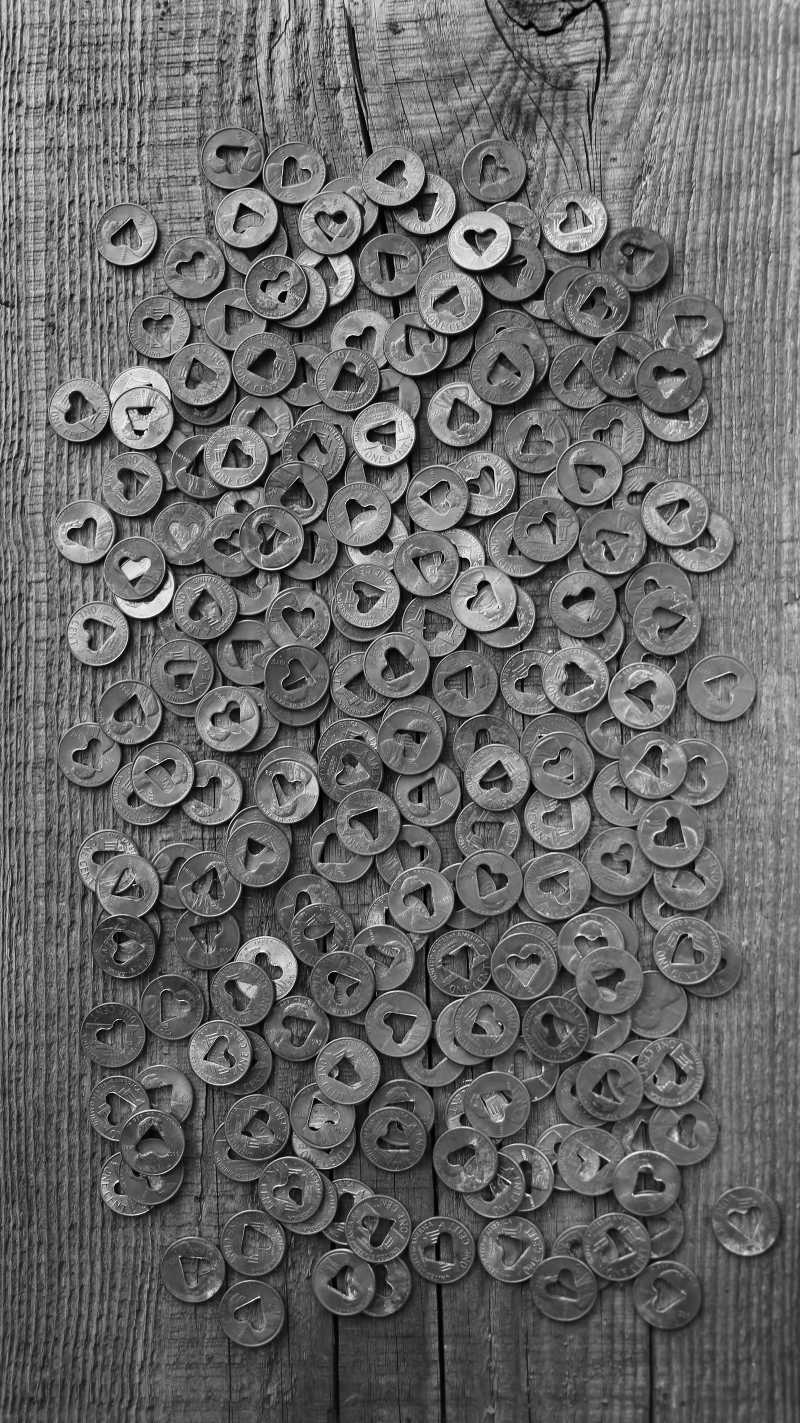
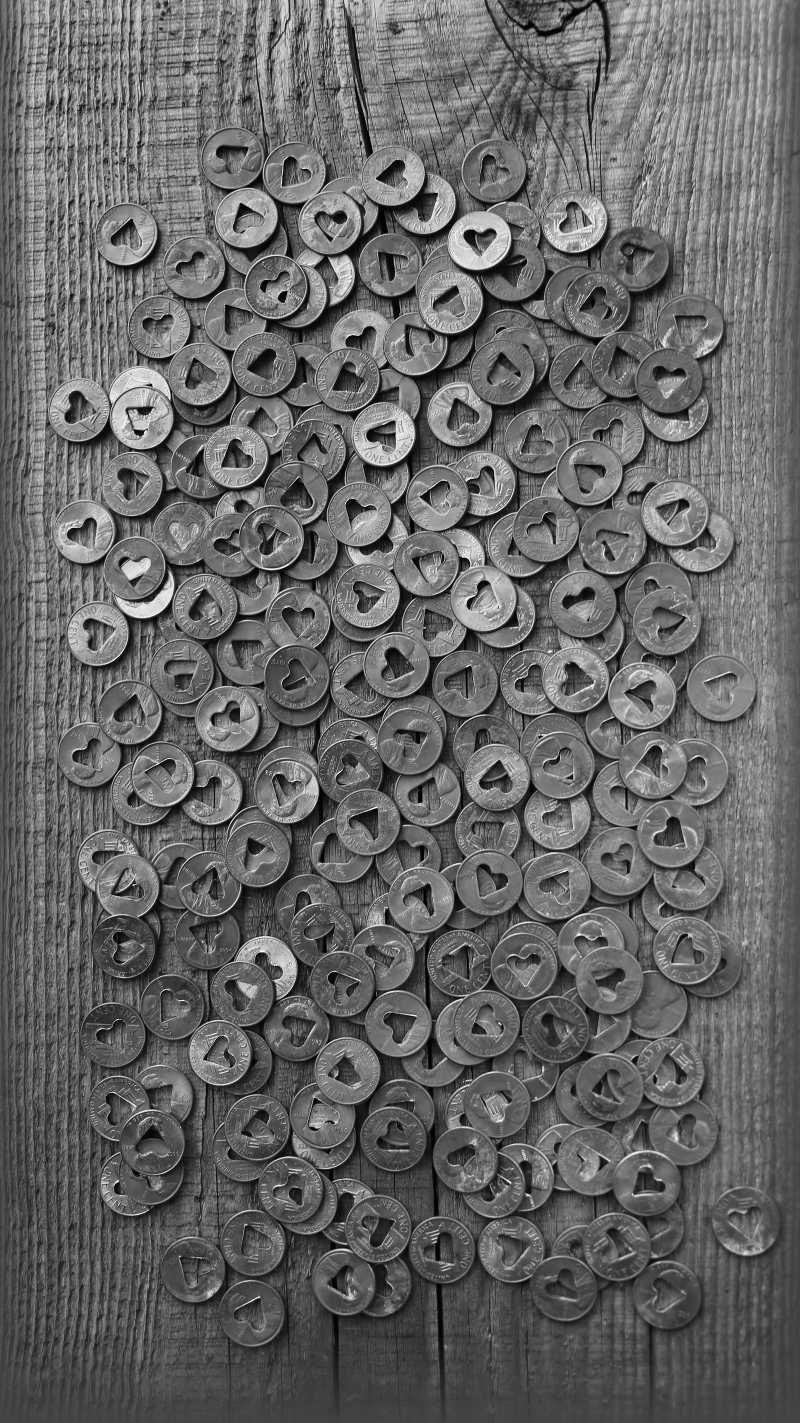
Here's a very basic authenticated homepage

diff --git a/scss/homepage.scss b/scss/homepage.scss
@@ -4,7 +4,7 @@
     display: table;
     width: 100%;
     min-height: 100%;
-    background: url("pennies.jpg");
+    background: #434343 url("pennies.jpg") no-repeat;
     background-size: cover;
     background-position: 0 -54px;
 
@@ -29,7 +29,7 @@
         padding: 0;
     }
 
-    p {
+    p, #jump {
         font: normal 18px/24px $Ideal;
         margin: 0;
         padding: 0;
@@ -110,6 +110,10 @@
             form.github button { @include has-icon("github"); }
             form.bitbucket button { @include has-icon("bitbucket"); }
             form.openstreetmap button { @include has-icon("openstreetmap"); }
+        }
+
+        #jump {
+
         }
     }
 }

diff --git a/scss/responsiveness.scss b/scss/responsiveness.scss
@@ -126,7 +126,7 @@
                 font-size: 24px; 
                 line-height: 36px;
             }
-            p { 
+            p, #jump { 
                 font-size: 16px; 
                 line-height: 24px;
             }
@@ -150,14 +150,6 @@
         }
     }
 
-
-    #jump {
-        select, input, button {
-            display: block;
-            width: 75%;
-            margin: 1em auto;
-        }
-    }
 
     #leaderboard {
         .people {
